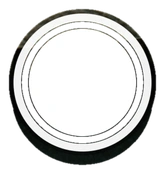
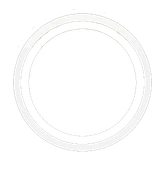
fix(marketing): unbake the shutter shadow, enlarge the hero phone, quicken the loop
Three corrections from Aziz reviewing the live page.

**The shutter carried a black halo.** The layer was cut from the Scan capture
keeping every opaque pixel, which included the shutter's drop shadow. A shadow
captured against one photograph is a ring of dark pixels, not a shadow: it looks
right over the dark sneaker it was cut from and reads as a black disc bolted to
the button over a bright one, which is what it did on the guitar frame.

The source splits cleanly, 71% of its opaque area at luminance 224+ (the white
ring and disc) against 19% below 32 (the burnt-in shadow), so the layer now keeps
only the shutter's own chrome and the shadow is reinstated with a CSS
drop-shadow that recomposites against whatever item is behind it.
scripts/hero-shutter.mjs in the App Store repo regenerates it.

**The hero phone was smaller than the explorer one.** 360x756 against 384x800,
so the lead visual, and the only animated one, was outranked by a phone that sits
beside step copy. The hero is now 400x840.

**The loop ran 4.4s per item.** Aziz counted it at 3s and asked for 2.5s, which
is his ratio rather than his absolute, so the cycle is 3.6s. Every beat is a
percentage of that variable, so they stay in phase without further change.

Tests assert the shutter layer has under 1% opaque dark pixels and that the hero
frame is wider than the explorer device. Verified the first fails on the old
asset, at 10.8%.

Changed region(s): [[0.0303, 0.0287, 0.9697, 0.9483]]

diff --git a/src/app/(marketing)/marketing.css b/src/app/(marketing)/marketing.css
@@ -574,13 +574,17 @@ html:has(.mkt) {
 /* The hero device holds the real camera screen, so it keeps the phone
    proportions and lets the shot fill it.
 
-   360 wide with 10px padding leaves a 340 x 736 screen, which is the 744 x 1610
+   400 wide with 10px padding leaves a 380 x 820 screen, which is the 744 x 1610
    shot aspect and therefore an actual iPhone screen aspect. The frame is square
    to the page: it used to sit at -3deg, but the screen is now a capture of the
-   shipping chrome, and rotating the frame shears that chrome along with it. */
+   shipping chrome, and rotating the frame shears that chrome along with it.
+
+   It is deliberately larger than the explorer device at 384. The hero phone is
+   the lead visual and the only animated one on the page, so it should outweigh a
+   phone that sits beside step copy. It used to be 360, which inverted that. */
 .mkt-hero__minimal-phone {
-  width: min(360px, 86vw);
-  aspect-ratio: 360 / 756;
+  width: min(400px, 86vw);
+  aspect-ratio: 400 / 840;
 }
 
 /* Screen contents. Every screen is now a capture of the shipping app rather
@@ -602,7 +606,7 @@ html:has(.mkt) {
    apart, and the item swap rides the same clock by listening for the iteration
    boundary rather than running its own timer. */
 .mkt-scanloop {
-  --scanloop-cycle: 4400ms;
+  --scanloop-cycle: 3600ms;
   position: relative;
   width: 100%;
   height: 100%;
@@ -639,7 +643,14 @@ html:has(.mkt) {
 }
 
 /* Cut from the same capture as the chrome so the pulse moves real pixels. The
-   offsets are the ring's measured position in that capture. */
+   offsets are the ring's measured position in that capture.
+
+   The shadow is drawn here rather than carried in the image. The first cut of
+   this layer kept the shutter's shadow as captured, which is a ring of dark
+   pixels burnt in against the photograph it was cut from. Over a darker item
+   that reads as a shadow; over a bright one it reads as a black halo bolted to
+   the button, which is what it did on the guitar frame. drop-shadow recomposites
+   against whatever item is actually behind it. */
 .mkt-scanloop__shutter {
   position: absolute;
   left: 39.0385%;
@@ -649,6 +660,7 @@ html:has(.mkt) {
   z-index: 4;
   pointer-events: none;
   transform-origin: 50% 50%;
+  filter: drop-shadow(0 1px 3px rgb(0 0 0 / 0.45));
   animation: mkt-scanloop-shutter var(--scanloop-cycle) var(--quint) infinite;
 }
 

diff --git a/src/app/(marketing)/marketing.test.tsx b/src/app/(marketing)/marketing.test.tsx
@@ -664,9 +664,39 @@ describe("feature explorer semantics", () => {
     // capture and the trim lands on real controls.
     expect(css).toMatch(/\.mkt-explorer__device\s*\{[\s\S]*?height:\s*600px/);
     expect(css).toMatch(/--phone-h:\s*calc\(var\(--phone-w\) \* 600 \/ 288\)/);
-    expect(css).toMatch(/\.mkt-hero__minimal-phone\s*\{[^}]*aspect-ratio:\s*360 \/ 756/);
+    expect(css).toMatch(/\.mkt-hero__minimal-phone\s*\{[^}]*aspect-ratio:\s*400 \/ 840/);
     // A rotated frame shears the captured chrome inside it.
     expect(css).not.toMatch(/\.mkt-hero__minimal-phone\s*\{[^}]*rotate\(/);
+
+    // The hero phone leads the page and is the only animated one, so it outranks
+    // the explorer device rather than sitting under it. It shipped at 360
+    // against the explorer's 384, which inverted that.
+    const heroWidth = css.match(/\.mkt-hero__minimal-phone\s*\{[^}]*width:\s*min\((\d+)px/);
+    expect(Number(heroWidth?.[1])).toBeGreaterThan(384);
+  });
+
+  it("keeps the shutter's shadow in CSS rather than burnt into the layer", async () => {
+    const css = readFileSync(resolve("src/app/(marketing)/marketing.css"), "utf8");
+
+    // A shadow captured against one photograph is a ring of dark pixels. Over a
+    // bright item it reads as a black halo bolted to the button, which is what
+    // it did on the guitar frame. So the layer carries only the shutter's own
+    // bright chrome and the shadow is recomposited here.
+    expect(css).toMatch(/\.mkt-scanloop__shutter\s*\{[^}]*filter:\s*drop-shadow\(/);
+
+    const { data, info } = await sharp(resolve("public/marketing/hero/shutter.webp"))
+      .ensureAlpha()
+      .raw()
+      .toBuffer({ resolveWithObject: true });
+
+    // No opaque dark pixels: every surviving pixel belongs to the white ring or
+    // disc. The burnt-in version was 19% of its opaque area below luminance 32.
+    let opaqueDark = 0;
+    for (let i = 0; i < data.length; i += 4) {
+      if (data[i + 3] < 200) continue;
+      if (data[i] * 0.299 + data[i + 1] * 0.587 + data[i + 2] * 0.114 < 110) opaqueDark += 1;
+    }
+    expect(opaqueDark / (info.width * info.height)).toBeLessThan(0.01);
   });
 
   it("stops the scanning loop under reduced motion without losing the screen", () => {
